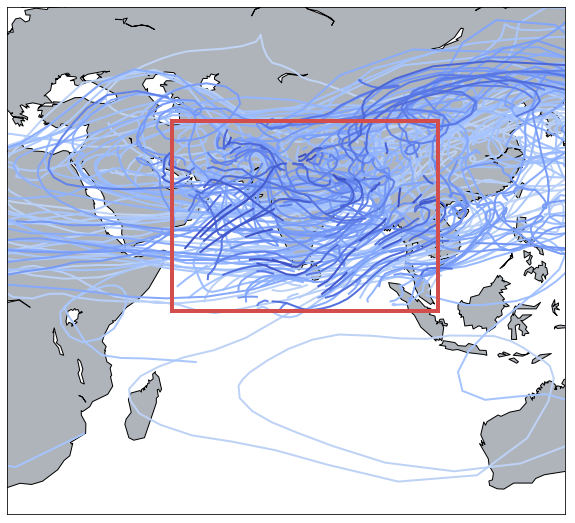
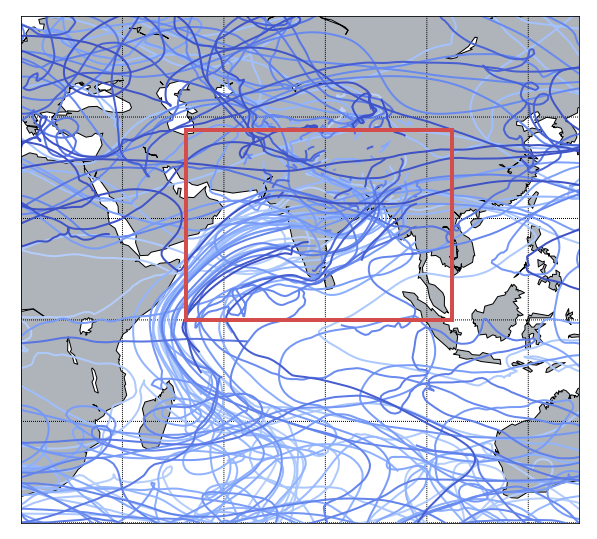
Update Documentation
- New figure in section Examples.

- New examples in section Examples/IFS.

diff --git a/docs/Examples.rst b/docs/Examples.rst
@@ -139,6 +139,24 @@ The IFS data is stored on a Arakawa's A-grid while TRACMASS is defined on a Arak
     :align: center
     :alt: An example of a run with IFS data.
 
+TRACMASS features: seeding trajectories using a mask (**maskFile**)
+^^^^^^^^^^^^^^^^^^^^^^^^^^^^^^^^^^^^^^^^^^^^^^^^^^^^^^^^^^^^^^^^^^^
+The seeding can be restricted using a mask file. The **maskFile** is only read if **seedType=1**, The seeding domain is described by the red rectangle in both figures below. If no mask is applied all grid points in the defined area can initialise a trajectory. The blue dots represent grid cells where trajectories are seeded. The figure on the right shows if a mask is applied to the seeding. The mask is given by the gray filled contour and the seeded trajectories are given in orange. As expected only trajectories that are within the mask and the seeding domain are initialised (note that the mask in this case is also defined outside the seeding domain).
+
+.. image:: figs/fig_ifs_2.png
+    :width: 100%
+    :align: center
+    :alt: maskFile in IFS data.
+
+TRACMASS features: flux & tracer trajectories (**l_swtraj**)
+^^^^^^^^^^^^^^^^^^^^^^^^^^^^^^^^^^^^^^^^^^^^^^^^^^^^^^^^^^^^^^^^^^^
+TRACMASS allows to compute a special case of trajectories that combine tracers and mass/volume fluxes. This option is useful to follow water trajectories in the atmosphere, or salt in the ocean. If **l_swtraj** TRUE, the mass/volume fluxes are multiplied by the tracer chosen in the first position. The figure below shows trajectory densities computed using the default setup of the project and a seeding mask. The figure on the left shows the trajectory density for the default case (air trajectories) while the figure on the right shows trajectories computed by multiplying the fluxes by humidity (water trajectories).
+
+.. image:: figs/fig_ifs_3.png
+    :width: 100%
+    :align: center
+    :alt: Water trajectories in TRACMASS.
+
 ROMS (3D dataset)
 -----------------
 
